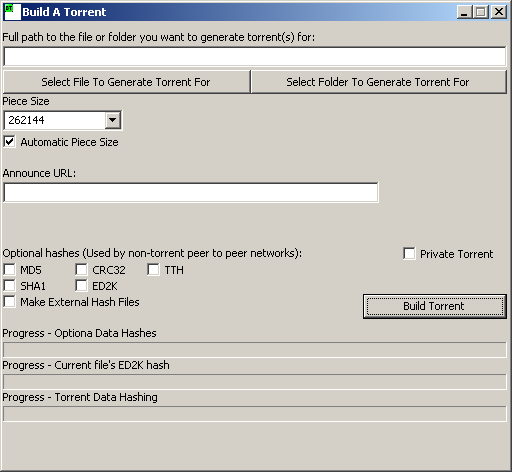
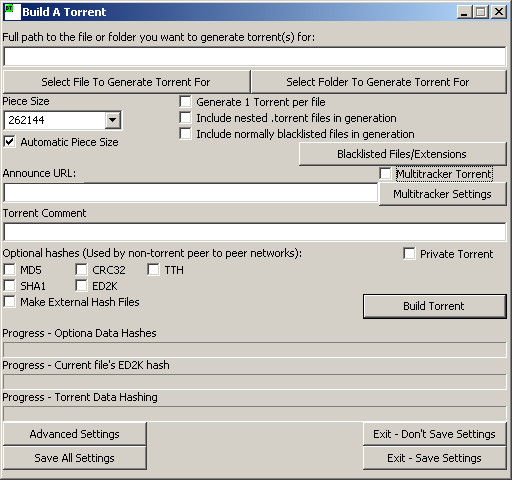
Updated main dialog.

diff --git a/TorrentBuild_CPPDlg.cpp b/TorrentBuild_CPPDlg.cpp
@@ -44,12 +44,36 @@ void TorrentBuild_CPPDlg::CreateGUIControls(void)
 	//Add the custom code before or after the blocks
 	////GUI Items Creation Start
 
-	this->SetSize(8,8,512,472);
+	this->SetSize(8,8,512,480);
 	this->SetTitle(wxT("Build A Torrent"));
 	this->Center();
 	wxIcon TorrentBuild_CPPDlg_ICON (TorrentBuild_CPPDlg_XPM);
 	this->SetIcon(TorrentBuild_CPPDlg_XPM);
 	
+
+	WxStaticText8 = new wxStaticText(this, ID_WXSTATICTEXT8, wxT("Torrent Comment"), wxPoint(0,184), wxSize(504,16), 0, wxT("WxStaticText8"));
+
+	MultiTrackerEnabled = new wxCheckBox(this, ID_MULTITRACKERENABLED, wxT("Multitracker Torrent"), wxPoint(376,144), wxSize(128,16), 0, wxDefaultValidator, wxT("MultiTrackerEnabled"));
+
+	TorrentComment = new wxTextCtrl(this, ID_TORRENTCOMMENT, wxT(""), wxPoint(0,200), wxSize(504,20), 0, wxDefaultValidator, wxT("TorrentComment"));
+
+	AdvSet = new wxButton(this, ID_ADVSET, wxT("Advanced Settings"), wxPoint(0,400), wxSize(144,24), 0, wxDefaultValidator, wxT("AdvSet"));
+
+	SaveSettings = new wxButton(this, ID_SAVESETTINGS, wxT("Save All Settings"), wxPoint(0,424), wxSize(144,24), 0, wxDefaultValidator, wxT("SaveSettings"));
+
+	ExitWithSave = new wxButton(this, ID_EXITWITHSAVE, wxT("Exit - Save Settings"), wxPoint(360,424), wxSize(144,24), 0, wxDefaultValidator, wxT("ExitWithSave"));
+
+	ExitWithoutSave = new wxButton(this, ID_EXITWITHOUTSAVE, wxT("Exit - Don't Save Settings"), wxPoint(360,400), wxSize(144,24), 0, wxDefaultValidator, wxT("ExitWithoutSave"));
+
+	MultitrackerSettings = new wxButton(this, ID_MULTITRACKERSETTINGS, wxT("Multitracker Settings"), wxPoint(376,160), wxSize(128,24), 0, wxDefaultValidator, wxT("MultitrackerSettings"));
+
+	BlacklistingScreen = new wxButton(this, ID_BLACKLISTINGSCREEN, wxT("Blacklisted Files/Extensions"), wxPoint(296,120), wxSize(208,24), 0, wxDefaultValidator, wxT("BlacklistingScreen"));
+
+	IncludeBlacklisted = new wxCheckBox(this, ID_INCLUDEBLACKLISTED, wxT("Include normally blacklisted files in generation"), wxPoint(176,104), wxSize(328,16), 0, wxDefaultValidator, wxT("IncludeBlacklisted"));
+
+	IncludeTorrents = new wxCheckBox(this, ID_INCLUDETORRENTS, wxT("Include nested .torrent files in generation"), wxPoint(176,88), wxSize(328,16), 0, wxDefaultValidator, wxT("IncludeTorrents"));
+
+	MakeSeparateTorrents = new wxCheckBox(this, ID_MAKESEPARATETORRENTS, wxT("Generate 1 Torrent per file"), wxPoint(176,72), wxSize(328,16), 0, wxDefaultValidator, wxT("MakeSeparateTorrents"));
 
 	WxGauge2 = new wxGauge(this, ID_WXGAUGE2, 100, wxPoint(0,384), wxSize(504,16), wxGA_HORIZONTAL, wxDefaultValidator, wxT("WxGauge2"));
 	WxGauge2->SetRange(100);
@@ -63,11 +87,11 @@ void TorrentBuild_CPPDlg::CreateGUIControls(void)
 	OptionalHashProgress->SetRange(100);
 	OptionalHashProgress->SetValue(0);
 
-	WxStaticText7 = new wxStaticText(this, ID_WXSTATICTEXT7, wxT("Progress - Torrent Data Hashing"), wxPoint(0,368), wxSize(504,16), 0, wxT("WxStaticText7"));
+	WxStaticText7 = new wxStaticText(this, ID_WXSTATICTEXT7, wxT("Progress - Torrent Data Hashing"), wxPoint(0,368), wxSize(156,16), 0, wxT("WxStaticText7"));
 
-	WxStaticText6 = new wxStaticText(this, ID_WXSTATICTEXT6, wxT("Progress - Current file's ED2K hash"), wxPoint(0,336), wxSize(504,16), 0, wxT("WxStaticText6"));
+	WxStaticText6 = new wxStaticText(this, ID_WXSTATICTEXT6, wxT("Progress - Current file's ED2K hash"), wxPoint(0,336), wxSize(168,16), 0, wxT("WxStaticText6"));
 
-	WxStaticText5 = new wxStaticText(this, ID_WXSTATICTEXT5, wxT("Progress - Optiona Data Hashes"), wxPoint(0,304), wxSize(504,16), 0, wxT("WxStaticText5"));
+	WxStaticText5 = new wxStaticText(this, ID_WXSTATICTEXT5, wxT("Progress - Optiona Data Hashes"), wxPoint(0,304), wxSize(156,16), 0, wxT("WxStaticText5"));
 
 	BuildTorrentNow = new wxButton(this, ID_BUILDTORRENTNOW, wxT("Build Torrent"), wxPoint(360,272), wxSize(144,25), 0, wxDefaultValidator, wxT("BuildTorrentNow"));
 	BuildTorrentNow->SetDefault();
@@ -84,13 +108,13 @@ void TorrentBuild_CPPDlg::CreateGUIControls(void)
 
 	MakeMD5 = new wxCheckBox(this, ID_MD5, wxT("MD5"), wxPoint(0,240), wxSize(72,16), 0, wxDefaultValidator, wxT("MakeMD5"));
 
-	WxStaticText4 = new wxStaticText(this, ID_WXSTATICTEXT4, wxT("Optional hashes (Used by non-torrent peer to peer networks):"), wxPoint(0,224), wxSize(300,16), 0, wxT("WxStaticText4"));
+	WxStaticText4 = new wxStaticText(this, ID_WXSTATICTEXT4, wxT("Optional hashes (Used by non-torrent peer to peer networks):"), wxPoint(0,224), wxSize(310,16), 0, wxT("WxStaticText4"));
 
 	PrivateTorrent = new wxCheckBox(this, ID_PRIVATETORRENT, wxT("Private Torrent"), wxPoint(400,224), wxSize(104,16), 0, wxDefaultValidator, wxT("PrivateTorrent"));
 
 	AnnounceURL = new wxTextCtrl(this, ID_ANNOUNCEURL, wxT(""), wxPoint(0,160), wxSize(376,21), 0, wxDefaultValidator, wxT("AnnounceURL"));
 
-	WxStaticText3 = new wxStaticText(this, ID_WXSTATICTEXT3, wxT("Announce URL:"), wxPoint(0,144), wxSize(81,16), 0, wxT("WxStaticText3"));
+	WxStaticText3 = new wxStaticText(this, ID_WXSTATICTEXT3, wxT("Announce URL:"), wxPoint(0,144), wxSize(81,17), 0, wxT("WxStaticText3"));
 
 	AutomaticPieceSize = new wxCheckBox(this, ID_AUTOMATICPIECESIZE, wxT("Automatic Piece Size"), wxPoint(0,112), wxSize(136,16), 0, wxDefaultValidator, wxT("AutomaticPieceSize"));
 	AutomaticPieceSize->SetValue(true);

diff --git a/TorrentBuild_CPPDlg.h b/TorrentBuild_CPPDlg.h
@@ -58,6 +58,18 @@ class TorrentBuild_CPPDlg : public wxDialog
 		//Do not add custom control declarations
 		//wxDev-C++ will remove them. Add custom code after the block.
 		////GUI Control Declaration Start
+		wxStaticText *WxStaticText8;
+		wxCheckBox *MultiTrackerEnabled;
+		wxTextCtrl *TorrentComment;
+		wxButton *AdvSet;
+		wxButton *SaveSettings;
+		wxButton *ExitWithSave;
+		wxButton *ExitWithoutSave;
+		wxButton *MultitrackerSettings;
+		wxButton *BlacklistingScreen;
+		wxCheckBox *IncludeBlacklisted;
+		wxCheckBox *IncludeTorrents;
+		wxCheckBox *MakeSeparateTorrents;
 		wxGauge *WxGauge2;
 		wxGauge *HashProgress;
 		wxGauge *OptionalHashProgress;
@@ -92,6 +104,18 @@ class TorrentBuild_CPPDlg : public wxDialog
 		enum
 		{
 			////GUI Enum Control ID Start
+			ID_WXSTATICTEXT8 = 1037,
+			ID_MULTITRACKERENABLED = 1036,
+			ID_TORRENTCOMMENT = 1035,
+			ID_ADVSET = 1034,
+			ID_SAVESETTINGS = 1033,
+			ID_EXITWITHSAVE = 1032,
+			ID_EXITWITHOUTSAVE = 1031,
+			ID_MULTITRACKERSETTINGS = 1030,
+			ID_BLACKLISTINGSCREEN = 1029,
+			ID_INCLUDEBLACKLISTED = 1028,
+			ID_INCLUDETORRENTS = 1027,
+			ID_MAKESEPARATETORRENTS = 1026,
 			ID_WXGAUGE2 = 1025,
 			ID_HASHPROGRESS = 1024,
 			ID_OPTIONALHASHPROGRESS = 1023,

diff --git a/TorrentBuild_CPP_private.h b/TorrentBuild_CPP_private.h
@@ -1,8 +1,8 @@
 /* THIS FILE WILL BE OVERWRITTEN BY DEV-C++ */
 /* DO NOT EDIT ! */
 
-#ifndef TorrentBuild_CPP_PRIVATE_H
-#define TorrentBuild_CPP_PRIVATE_H
+#ifndef TORRENTBUILD_CPP_PRIVATE_H
+#define TORRENTBUILD_CPP_PRIVATE_H
 
 /* VERSION DEFINITIONS */
 #define VER_STRING	"0.1.1.1"
@@ -20,4 +20,4 @@
 #define PRODUCT_NAME	""
 #define PRODUCT_VERSION	""
 
-#endif /*TorrentBuild_CPP_PRIVATE_H*/
+#endif /*TORRENTBUILD_CPP_PRIVATE_H*/
